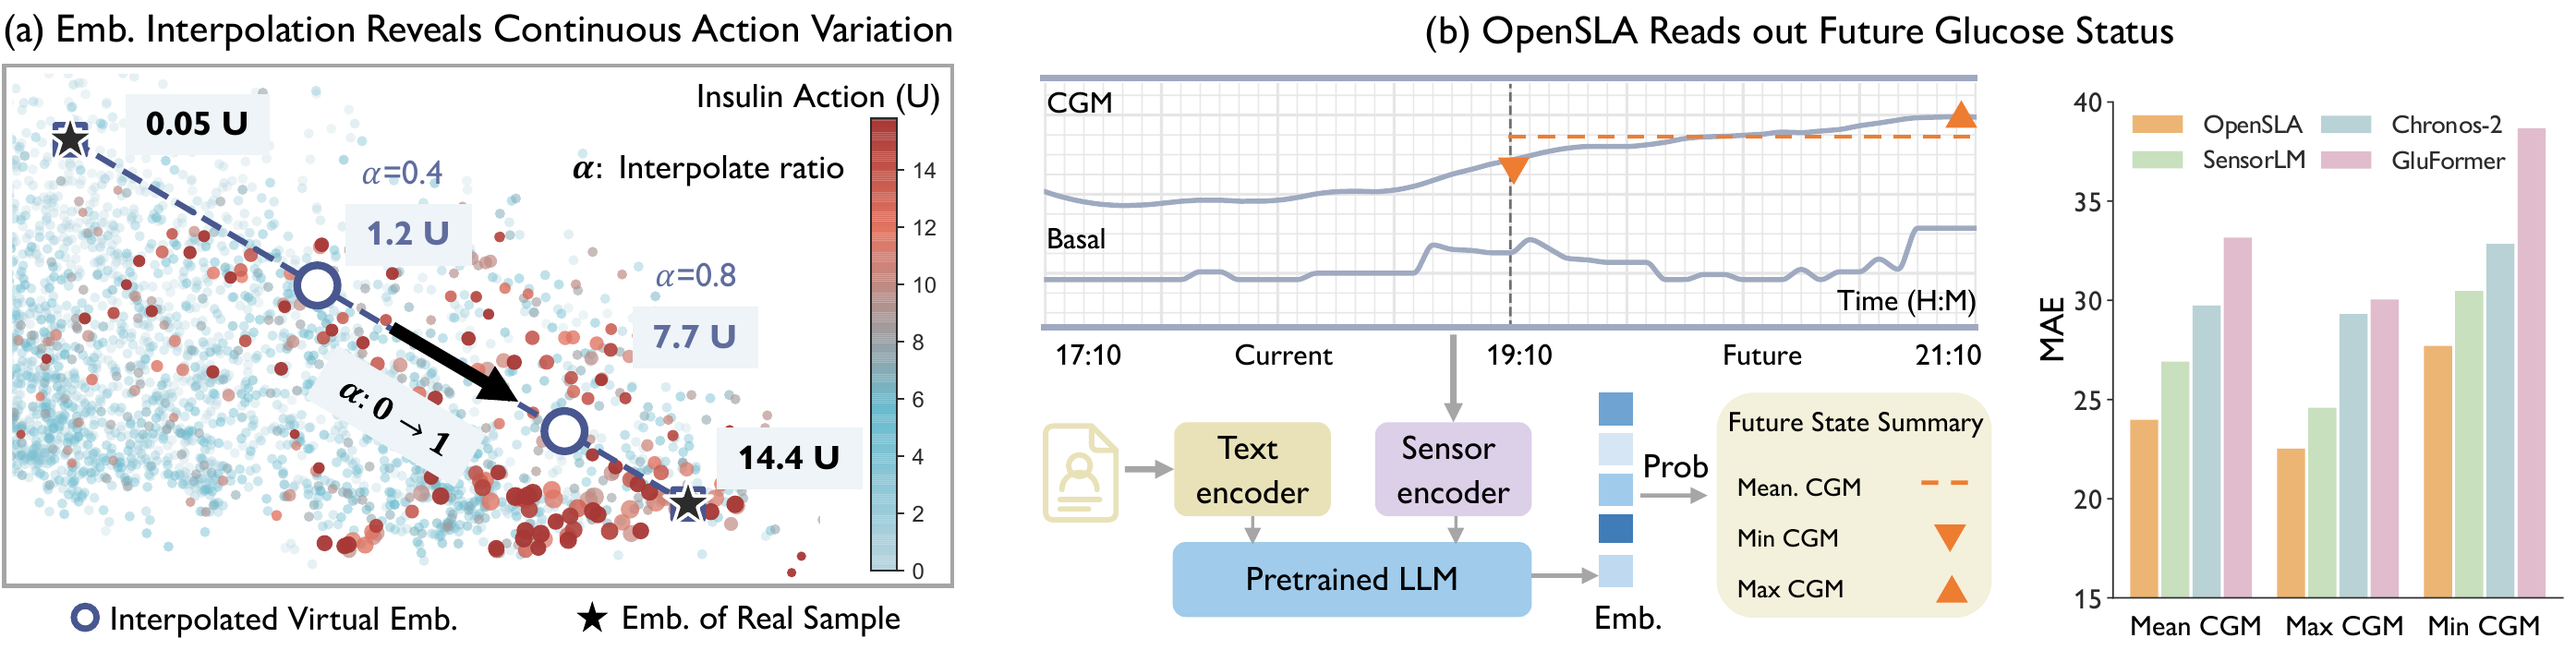
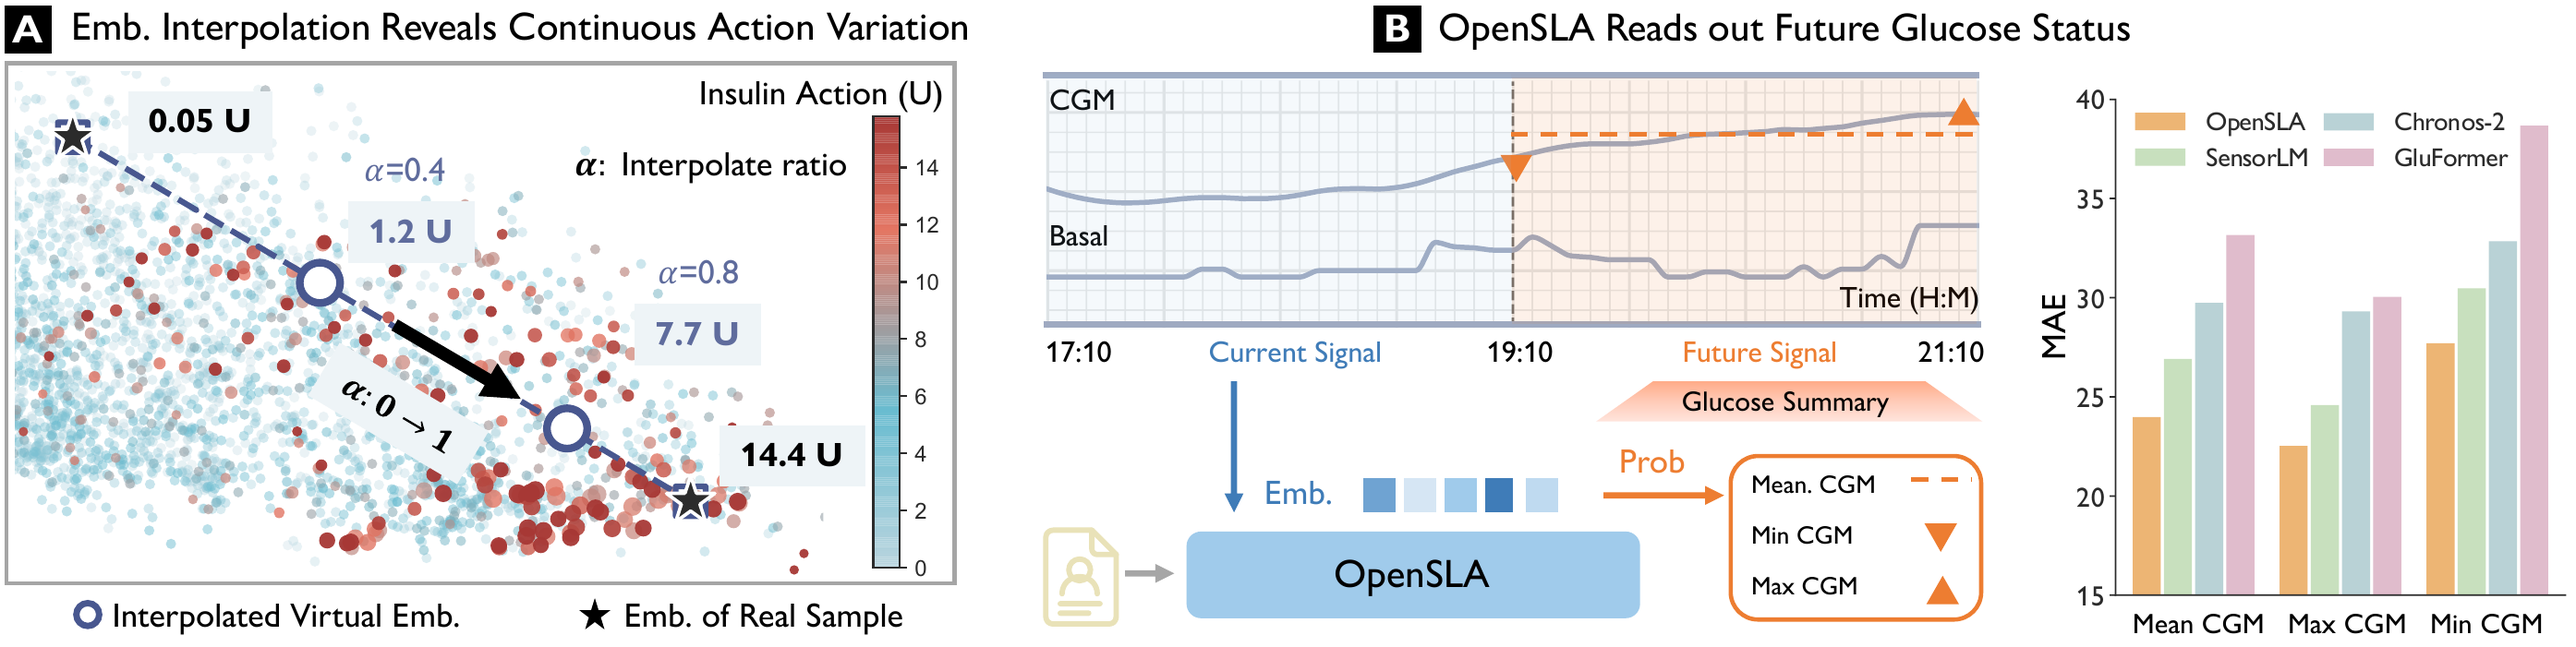
Swap in revised Fig. 5 and Fig. 6; align wording with latest paper
Fig. 5/6 restyled in the paper (A/B badges, redrawn Fig. 6 panel B);
re-measure the alpha-slider stops on the new Fig. 6. Wording follows
the arXiv draft: zero-shot Imipenem prediction, "first general framework".

diff --git a/index.html b/index.html
@@ -17,7 +17,7 @@
   <link rel="stylesheet" href="styles.css?v=21">
   <script>document.documentElement.classList.add("js");</script>
   <script src="vendor/lucide.min.js" defer></script>
-  <script src="app.js?v=13" defer></script>
+  <script src="app.js?v=14" defer></script>
 </head>
 <body id="top">
 
@@ -76,7 +76,7 @@
       </button>
       <button class="win" data-mark="unseen" type="button" aria-label="Unseen actions">
         <span class="mk-tag"><i></i>Unseen action</span>
-        <span class="card"><b>Beyond the label set</b><span>An antibiotic that was never a training target is still told apart from no action, with the model frozen.</span></span>
+        <span class="card"><b>Beyond the label set</b><span>An antibiotic that was never a training target is still told apart from no action, zero-shot.</span></span>
       </button>
       <button class="win" data-mark="state" type="button" aria-label="State understanding">
         <span class="mk-tag"><b>B</b>State understanding</span>
@@ -209,7 +209,7 @@
       </details>
       <details class="acc-item p-3">
         <summary><span class="acc-num">03</span><span class="acc-title">One model that predicts, describes, and explains</span><i data-lucide="plus" class="acc-ico" aria-hidden="true"></i></summary>
-        <div class="acc-body"><p>OpenSLA is the first general model to connect sensors, language, and actions. It decides whether to act, what kind of action, and which one; it describes what the signals show; and it explains the decision with the evidence behind it &mdash; all from a single model, grounded in the recording.</p></div>
+        <div class="acc-body"><p>OpenSLA is the first general framework to connect sensors, language, and actions. It decides whether to act, what kind of action, and which one; it describes what the signals show; and it explains the decision with the evidence behind it &mdash; all from a single model, grounded in the recording.</p></div>
       </details>
     </div>
 
@@ -298,11 +298,11 @@
     <div class="split split-fig">
       <div class="split-text reveal">
         <h2>An action it never trained on lands beside its relatives.</h2>
-        <p>Imipenem was never a training target, yet it lands among the antibiotics &mdash; and a frozen OpenSLA-H detects it at <b>71.4</b> balanced accuracy, against 61.9 for the strongest baseline.</p>
+        <p>Imipenem was never a training target, yet it lands among the antibiotics &mdash; and OpenSLA-H predicts it zero-shot at <b>71.4</b> balanced accuracy, against 61.9 for the strongest baseline.</p>
       </div>
       <div class="split-visual reveal">
         <figure class="visual-frame" data-zoom>
-          <img src="assets/unseen-action.png?v=2" width="2292" height="761" loading="lazy" alt="(a) Zero-shot Imipenem prediction: balanced accuracy for OpenSLA, GPT-5.6-Luna, and OpenTSLM. (b) PCA of action representations with a zoomed inset, where the unseen action Imipenem lies inside the antibiotics cluster.">
+          <img src="assets/unseen-action.png?v=3" width="2280" height="758" loading="lazy" alt="(A) Zero-shot Imipenem prediction: balanced accuracy for OpenSLA, GPT-5.6-Luna, and OpenTSLM. (B) PCA of action representations with a zoomed inset, where the unseen action Imipenem lies inside the antibiotics cluster.">
           <div class="frame-tools"><button class="tool zoom-btn" type="button" aria-label="Enlarge figure"><i data-lucide="expand" aria-hidden="true"></i></button></div>
           <figcaption>Fig.&nbsp;5</figcaption>
         </figure>
@@ -322,8 +322,8 @@
     <div class="alpha reveal">
       <figure class="alpha-fig" data-zoom>
         <div class="alpha-stage">
-          <img src="assets/action-representations.png?v=2" width="2789" height="704" loading="lazy" alt="(a) Interpolating between the embeddings of two real samples (0.05 and 14.4 units of insulin) and retrieving the nearest real sample at each point gives 1.2 units at alpha 0.4 and 7.7 units at alpha 0.8. (b) The embedding of the current CGM window is read out into a future-state summary; mean absolute error over the next two hours is lowest for OpenSLA.">
-          <svg class="alpha-overlay" viewBox="0 0 2789 704" aria-hidden="true">
+          <img src="assets/action-representations.png?v=3" width="2789" height="701" loading="lazy" alt="(A) Interpolating between the embeddings of two real samples (0.05 and 14.4 units of insulin) and retrieving the nearest real sample at each point gives 1.2 units at alpha 0.4 and 7.7 units at alpha 0.8. (B) The embedding of the current CGM window is read out into a future-state summary; mean absolute error over the next two hours is lowest for OpenSLA.">
+          <svg class="alpha-overlay" viewBox="0 0 2789 701" aria-hidden="true">
             <circle class="alpha-halo" r="34"></circle>
             <circle class="alpha-dot" r="13"></circle>
           </svg>

diff --git a/app.js b/app.js
@@ -583,12 +583,12 @@
     if (!box) return;
     var range = $(".alpha-range", box), val = $(".alpha-val", box), dose = $(".alpha-dose", box), tag = $(".alpha-tag", box);
     var halo = $(".alpha-halo", box), dot = $(".alpha-dot", box);
-    // the four stops on the dashed path in panel (a), in image pixels of action-representations.png (2789 x 704)
+    // the four stops on the dashed path in panel (A), in image pixels of action-representations.png (2789 x 701)
     var STOPS = [
-      { a: 0.0, x: 75,  y: 144, dose: "0.05 U", tag: "endpoint" },
-      { a: 0.4, x: 340, y: 310, dose: "1.2 U",  tag: "retrieved" },
-      { a: 0.8, x: 608, y: 468, dose: "7.7 U",  tag: "retrieved" },
-      { a: 1.0, x: 747, y: 546, dose: "14.4 U", tag: "endpoint" }
+      { a: 0.0, x: 78,  y: 141, dose: "0.05 U", tag: "endpoint" },
+      { a: 0.4, x: 343, y: 307, dose: "1.2 U",  tag: "retrieved" },
+      { a: 0.8, x: 611, y: 465, dose: "7.7 U",  tag: "retrieved" },
+      { a: 1.0, x: 750, y: 543, dose: "14.4 U", tag: "endpoint" }
     ];
     function place(a) {
       var i = 0; while (i < STOPS.length - 2 && a > STOPS[i + 1].a) i++;
